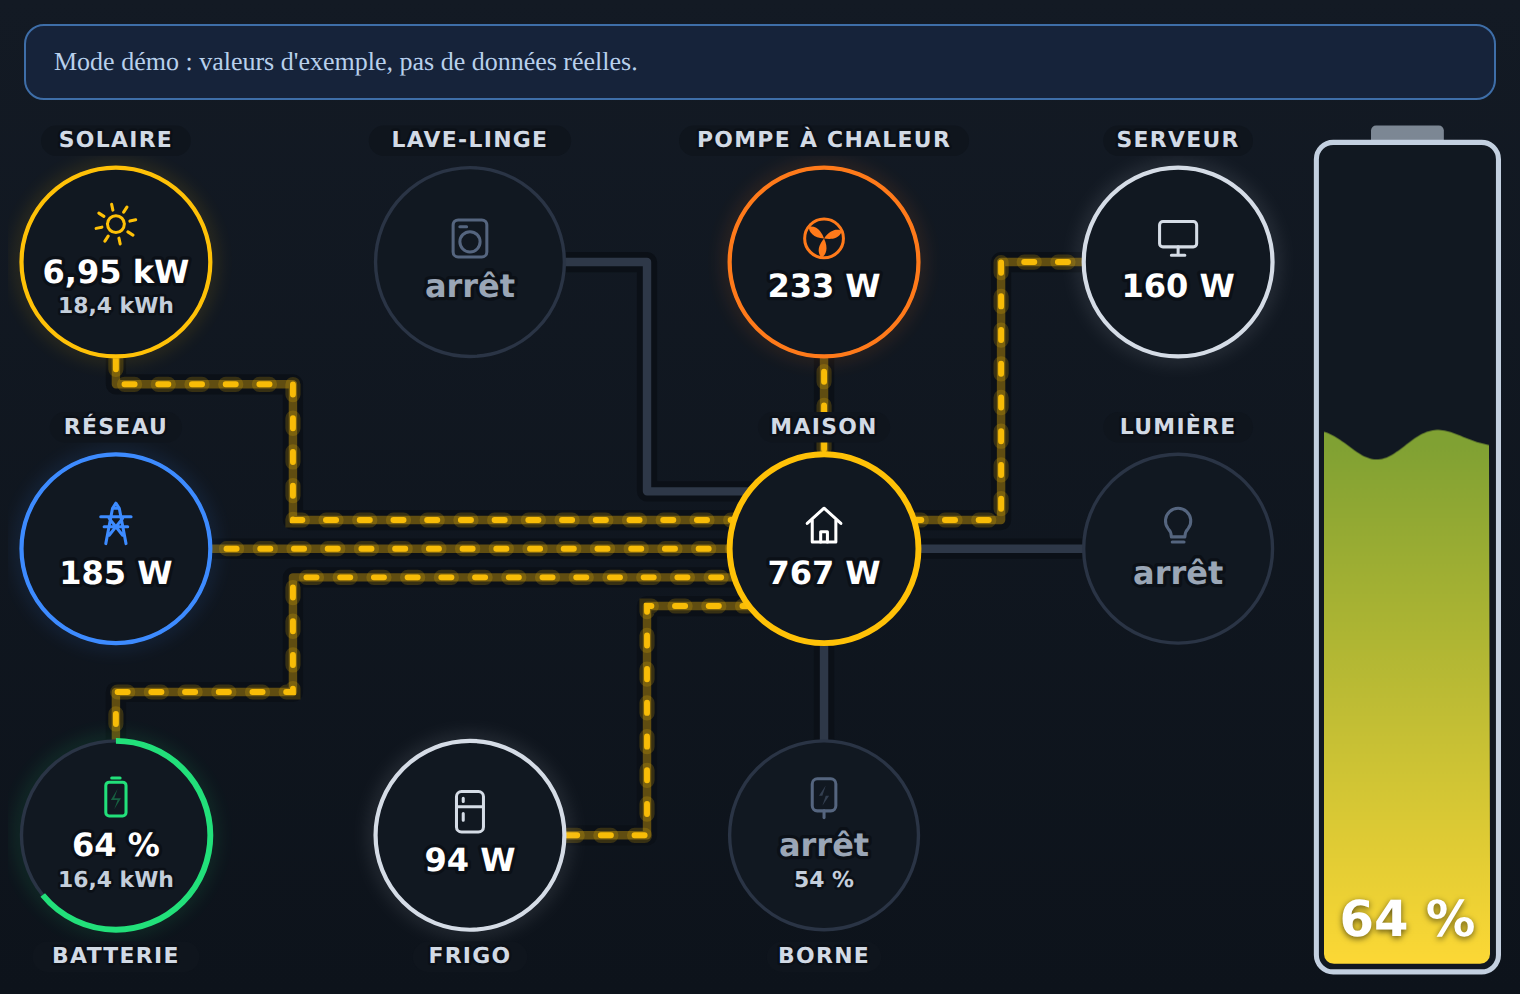
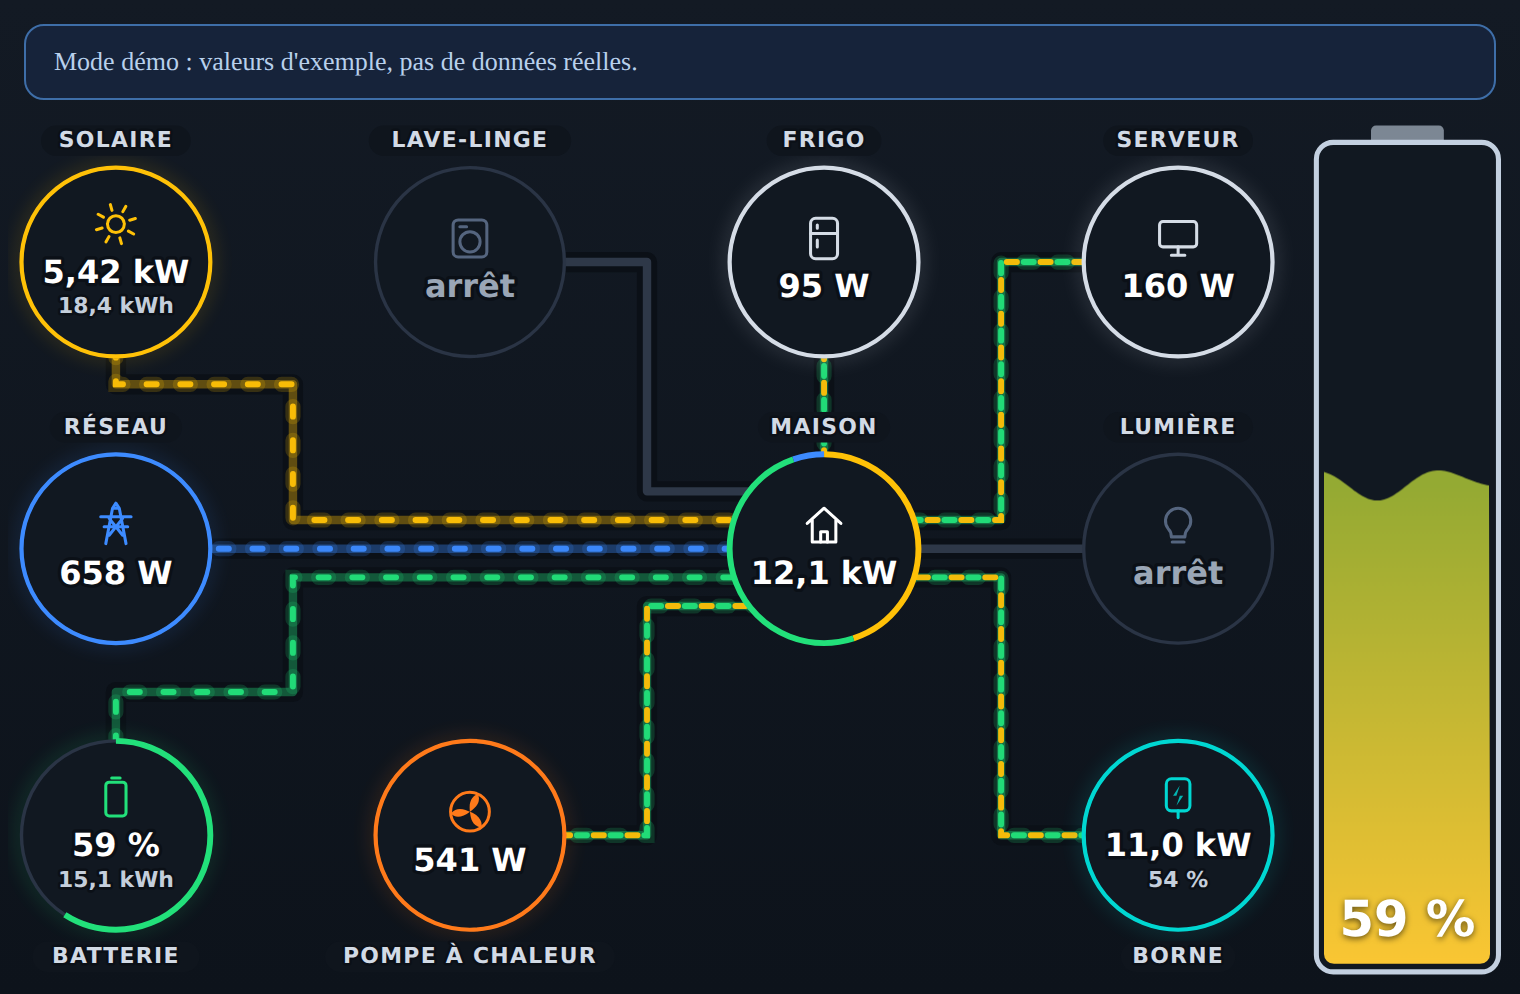
change postion

diff --git a/dist/energy-flow-card-by-lutarym.js b/dist/energy-flow-card-by-lutarym.js
@@ -139,7 +139,7 @@ const PLATZ_PFAD = {
 };
 
 /** Reihenfolge, in der freie Plaetze an Verbraucher ohne Wunsch gehen. */
-const PLATZ_FOLGE = ["links_oben", "links_unten", "rechts_oben", "rechts", "rechts_unten", "oben", "unten"];
+const PLATZ_FOLGE = ["links_oben", "oben", "rechts_oben", "rechts", "unten", "rechts_unten", "links_unten"];
 
 /* ------------------------------------------------------------------ *
  *  Kleine Symbole in den Kreisen, 24er Raster um den Nullpunkt
@@ -930,15 +930,15 @@ class LutarymEnergyFlowCard extends HTMLElement {
   /**
    * Verteilt Waermepumpe, Wallbox und Verbraucher auf die Plaetze.
    * Zuerst bekommt jeder seinen gewaehlten Platz, dann Waermepumpe und
-   * Wallbox ihren Standard oben und unten, der Rest fuellt die freien
+   * Wallbox ihren Standard links unten und rechts unten, der Rest fuellt die freien
    * Plaetze der Reihe nach. Ergebnis: Platzname je Kennung.
    */
   _platzierung() {
     const c = this._config;
     const e = c.entities || {};
     const liste = [];
-    if (c.demo || e.heatpump) liste.push({ id: "wp", wunsch: c.heatpump_position, standard: "oben" });
-    if (c.demo || e.wallbox) liste.push({ id: "wb", wunsch: c.wallbox_position, standard: "unten" });
+    if (c.demo || e.heatpump) liste.push({ id: "wp", wunsch: c.heatpump_position, standard: "links_unten" });
+    if (c.demo || e.wallbox) liste.push({ id: "wb", wunsch: c.wallbox_position, standard: "rechts_unten" });
     this._verbraucherListe().forEach((v, i) => liste.push({ id: `ex${i}`, wunsch: v.platz }));
     const belegt = new Set();
     const ergebnis = {};

diff --git a/README.fr.md b/README.fr.md
@@ -108,7 +108,7 @@ Symboles : `steckdose` (prise), `waschmaschine` (lave-linge), `spuelmaschine` (l
 | `min_flow` | `10` | Une puissance plus faible en W compte comme arrêt |
 | `grid_invert` | `false` | Inverser le signe de `grid` |
 | `battery_invert` | `false` | Inverser le signe de `battery` |
-| `heatpump_position`, `wallbox_position`, `position` d'un consommateur | automatique | Emplacement autour de la maison : `links_oben`, `oben`, `rechts_oben`, `rechts`, `rechts_unten`, `unten`, `links_unten` (en haut à gauche, en haut, en haut à droite, à droite, en bas à droite, en bas, en bas à gauche). Sans choix, la pompe à chaleur va en haut, la borne en bas et les consommateurs remplissent les emplacements libres |
+| `heatpump_position`, `wallbox_position`, `position` d'un consommateur | automatique | Emplacement autour de la maison : `links_oben`, `oben`, `rechts_oben`, `rechts`, `rechts_unten`, `unten`, `links_unten` (en haut à gauche, en haut, en haut à droite, à droite, en bas à droite, en bas, en bas à gauche). Sans choix, la pompe à chaleur va en bas à gauche, la borne en bas à droite et les consommateurs remplissent les emplacements libres |
 | `name_pv`, `name_grid`, `name_battery`, `name_home`, `name_heatpump`, `name_wallbox` | | Noms personnalisés, vide utilise la langue de la carte |
 
 ## Licence

diff --git a/README.md b/README.md
@@ -108,7 +108,7 @@ Symbols: `steckdose`, `waschmaschine`, `spuelmaschine`, `herd`, `kuehlschrank`, 
 | `min_flow` | `10` | Lower power in W counts as idle |
 | `grid_invert` | `false` | Invert the sign of `grid` |
 | `battery_invert` | `false` | Invert the sign of `battery` |
-| `heatpump_position`, `wallbox_position`, `position` of a consumer | automatic | Place around the home: `links_oben`, `oben`, `rechts_oben`, `rechts`, `rechts_unten`, `unten`, `links_unten` (top left, top, top right, right, bottom right, bottom, bottom left). Without a choice the heat pump goes to the top, the wallbox to the bottom and the consumers fill the free places |
+| `heatpump_position`, `wallbox_position`, `position` of a consumer | automatic | Place around the home: `links_oben`, `oben`, `rechts_oben`, `rechts`, `rechts_unten`, `unten`, `links_unten` (top left, top, top right, right, bottom right, bottom, bottom left). Without a choice the heat pump goes to the bottom left, the wallbox to the bottom right and the consumers fill the free places |
 | `name_pv`, `name_grid`, `name_battery`, `name_home`, `name_heatpump`, `name_wallbox` | | Own names, empty uses the card language |
 
 ## License

diff --git a/README.ja.md b/README.ja.md
@@ -108,7 +108,7 @@ consumers:
 | `min_flow` | `10` | これより小さい電力（W）は停止とみなす |
 | `grid_invert` | `false` | `grid` の符号を反転 |
 | `battery_invert` | `false` | `battery` の符号を反転 |
-| `heatpump_position`、`wallbox_position`、機器の `position` | 自動 | 家庭の周りの配置：`links_oben`, `oben`, `rechts_oben`, `rechts`, `rechts_unten`, `unten`, `links_unten`（左上、上、右上、右、右下、下、左下）。未選択の場合、ヒートポンプは上、EV充電器は下、その他の機器は空いている配置を順に使用 |
+| `heatpump_position`、`wallbox_position`、機器の `position` | 自動 | 家庭の周りの配置：`links_oben`, `oben`, `rechts_oben`, `rechts`, `rechts_unten`, `unten`, `links_unten`（左上、上、右上、右、右下、下、左下）。未選択の場合、ヒートポンプは左下、EV充電器は右下、その他の機器は空いている配置を順に使用 |
 | `name_pv`, `name_grid`, `name_battery`, `name_home`, `name_heatpump`, `name_wallbox` | | 独自の名前、空欄の場合はカードの言語を使用 |
 
 ## ライセンス

diff --git a/README.de.md b/README.de.md
@@ -108,7 +108,7 @@ Symbole: `steckdose`, `waschmaschine`, `spuelmaschine`, `herd`, `kuehlschrank`, 
 | `min_flow` | `10` | Kleinere Leistung in W gilt als Stillstand |
 | `grid_invert` | `false` | Vorzeichen von `grid` umkehren |
 | `battery_invert` | `false` | Vorzeichen von `battery` umkehren |
-| `heatpump_position`, `wallbox_position`, `position` eines Verbrauchers | automatisch | Platz rund um das Haus: `links_oben`, `oben`, `rechts_oben`, `rechts`, `rechts_unten`, `unten`, `links_unten`. Ohne Auswahl steht die Wärmepumpe oben, die Wallbox unten, die Verbraucher füllen die freien Plätze |
+| `heatpump_position`, `wallbox_position`, `position` eines Verbrauchers | automatisch | Platz rund um das Haus: `links_oben`, `oben`, `rechts_oben`, `rechts`, `rechts_unten`, `unten`, `links_unten`. Ohne Auswahl steht die Wärmepumpe links unten, die Wallbox rechts unten, die Verbraucher füllen die freien Plätze |
 | `name_pv`, `name_grid`, `name_battery`, `name_home`, `name_heatpump`, `name_wallbox` | | Eigene Namen, leer nimmt die Kartensprache |
 
 ## Lizenz
